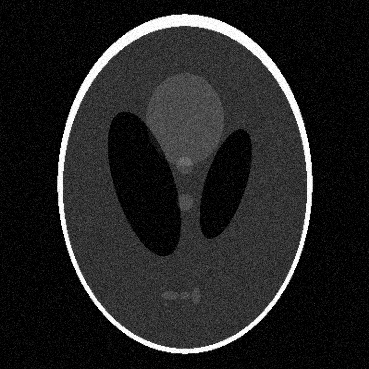
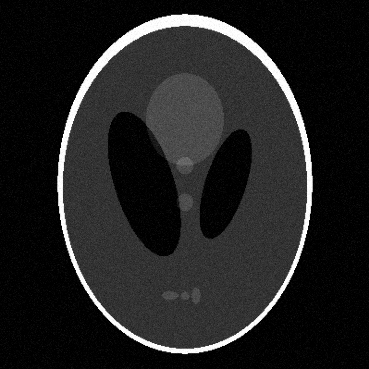
Added noise to FBP window analysis

diff --git a/models/FBP.py b/models/FBP.py
@@ -49,9 +49,19 @@ def compute_rmse(a, b):
 n = 64
 
 image_name = "shepp_logan_phantom.png"
-phantom = cv.imread(f"test_images/{"temp_noisy.png"}", cv.IMREAD_GRAYSCALE)
+phantom = cv.imread(f"test_images/{image_name}", cv.IMREAD_GRAYSCALE)
+#phantom = cv.resize(phantom, (n, n), interpolation=cv.INTER_AREA)
+phantom = phantom.astype(np.float32) / 255.0
+ref = cv.resize(phantom, (n, n), interpolation=cv.INTER_AREA).flatten()
+ref_norm = (ref - np.min(ref)) / (np.max(ref) - np.min(ref))
 
-w_iterations = [0, 1, 2, 3, 4, 5, 6, 7, 8, 9, 10, 11, 12, 13, 14, 15, 16, 17, 18, 19, 20]
+
+sigma = 0.025
+noisy_image = phantom + np.random.normal(0, sigma, phantom.shape)
+noisy_image = np.clip(noisy_image, 0, 1)
+cv.imwrite("test_images/temp_noisy.png", (noisy_image * 255).astype(np.uint8))
+
+w_iterations = [0, 1, 2, 3, 4, 5, 6, 7, 8, 9, 10, 11, 12, 13, 14, 15, 16, 17, 18, 19, 20, 21, 22, 23, 24, 25]
 w_strengths = [0.1, 0.2, 0.3, 0.4, 0.5, 0.6, 0.7, 0.8, 0.9, 1.0]
 
 rmses = np.zeros((len(w_iterations), len(w_strengths)))
@@ -84,7 +94,7 @@ best_params = None
 # Parameter sweep for window strength and iterations
 for i, w_iter in enumerate(w_iterations):
     for j, w_str in enumerate(w_strengths):
-        x_fbp = FBP_window_solver(A, b, num_iterations=20, lambda_val=1, window_strength=w_str, window_iterations=w_iter)
+        x_fbp = FBP_window_solver(A, b, num_iterations=25, lambda_val=1, window_strength=w_str, window_iterations=w_iter)
         x_fbp_image = np.flipud(x_fbp.reshape(n, n))
         x_norm = (x_fbp_image - np.min(x_fbp_image)) / (np.max(x_fbp_image) - np.min(x_fbp_image))
         #x_norm = x_norm ** 1.5
@@ -98,17 +108,18 @@ for i, w_iter in enumerate(w_iterations):
 print(f"Best RMSE: {best_rmse:.4f} with parameters: {best_params}")
 
 optimal_w_iter, optimal_w_str = best_params
-x_fbp_optimal = FBP_window_solver(A, b, num_iterations=20, lambda_val=1, window_strength=optimal_w_str, window_iterations=optimal_w_iter)
+x_fbp_optimal = FBP_window_solver(A, b, num_iterations=20, lambda_val=0.8, window_strength=optimal_w_str, window_iterations=optimal_w_iter)
 x_fbp_image_optimal = np.flipud(x_fbp_optimal.reshape(n, n))
 x_norm_optimal = (x_fbp_image_optimal - np.min(x_fbp_image_optimal)) / (np.max(x_fbp_image_optimal) - np.min(x_fbp_image_optimal))
-#x_norm_optimal = x_norm_optimal ** 1.5
+x_norm_optimal = x_norm_optimal ** 1.5
 
 
 
 plt.figure(figsize=(8,4))
 plt.subplot(1,2,1)
-plt.imshow(phantom, cmap='gray')
-plt.title('Original Phantom')
+plt.imshow(noisy_image, cmap='gray')
+plt.title('Original  Noisy Phantom')
+plt.text(0.5, -0.1, f'Noise Std Dev: {sigma}', ha='center', va='center', transform=plt.gca().transAxes)
 plt.axis('off')
 
 plt.subplot(1,2,2)
